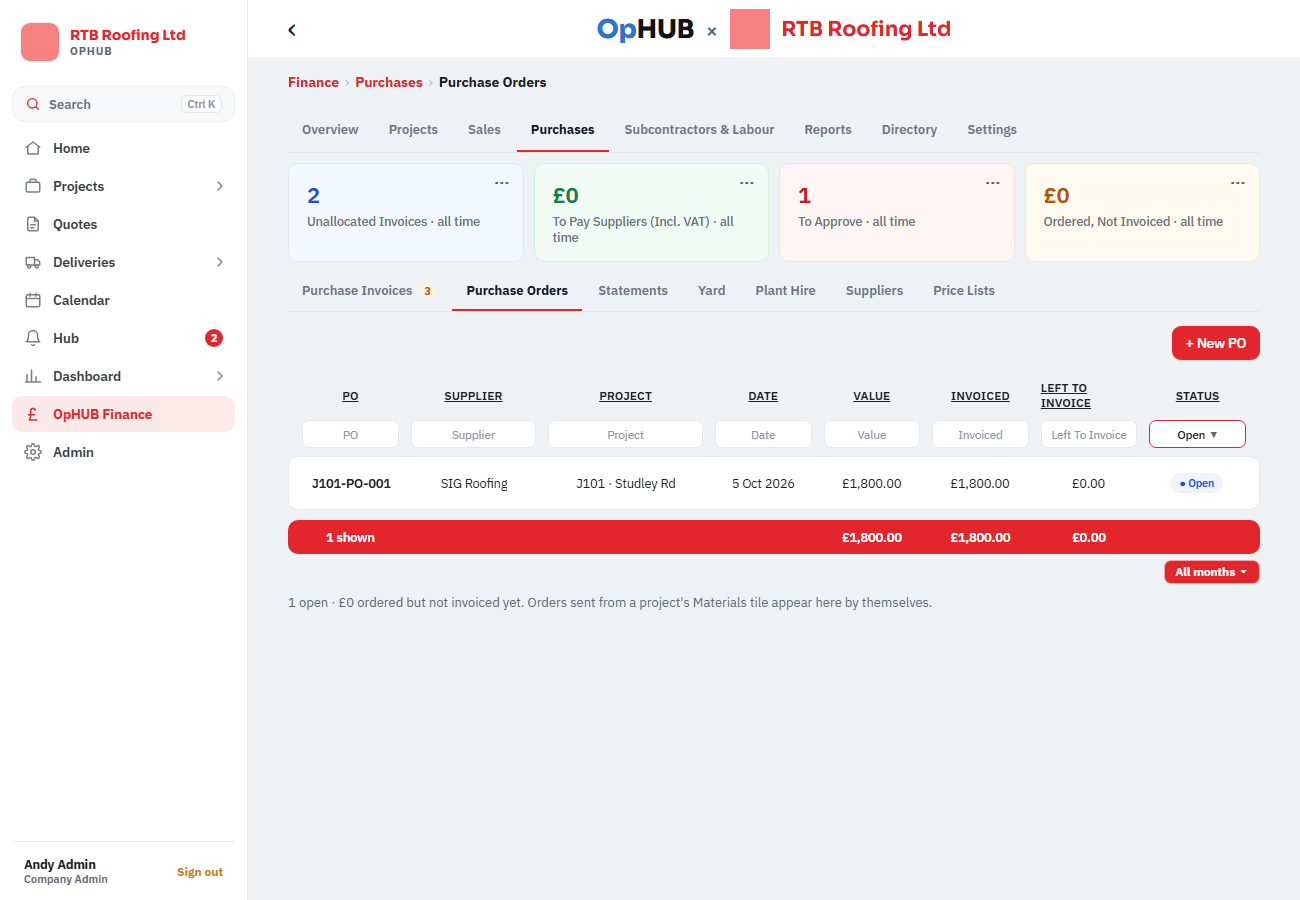
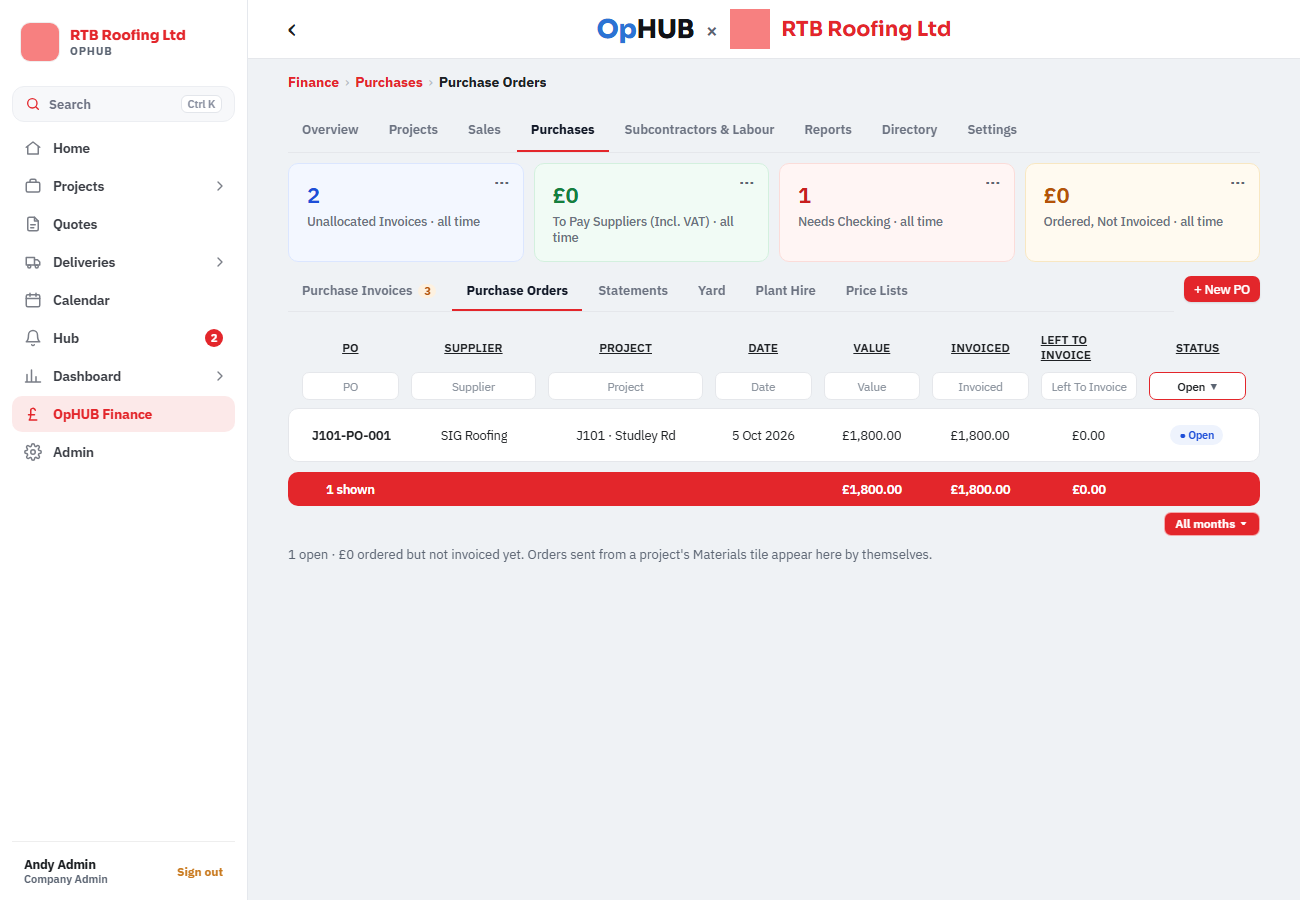
Purchases: + New PO sits at the end of the Purchase Invoices / Purchase Orders / Statements / Yard row instead of between the row and the table; Suppliers tab removed (suppliers live in the Directory); Price Book / Price Lists as underlined tabs (Andy, 5 Nov).
Claude-Session: https://claude.ai/code/session_012KhfNvBEbifMJmPdX7yZfp

diff --git a/app-native/src/components/FinNav.tsx b/app-native/src/components/FinNav.tsx
@@ -19,7 +19,7 @@ export const FIN_SECTIONS = [
 export const FIN_SUBS: Record<string, [string, string][]> = {
   sales: [['apps', 'Applications & Certificates'], ['invoices', 'Invoices'], ['retention', 'Retention']],
   // The current app's order: invoices first, then orders, statements, yard, plant hire, prices (9219z, 9219l, 9219m; cmp-fin 5 Nov 2026).
-  purchases: [['invoices', 'Purchase Invoices'], ['orders', 'Purchase Orders'], ['statements', 'Statements'], ['yard', 'Yard'], ['plant', 'Plant Hire'], ['suppliers', 'Suppliers'], ['prices', 'Price Lists']],
+  purchases: [['invoices', 'Purchase Invoices'], ['orders', 'Purchase Orders'], ['statements', 'Statements'], ['yard', 'Yard'], ['plant', 'Plant Hire'], ['prices', 'Price Lists']], // Suppliers live in the Directory (Andy, 5 Nov 2026)
   // Every word capitalised, as the current app (9219x) and Andy's rule (cmp-fin 5 Nov 2026).
   subs: [['opinv', 'Operative Invoices'], ['wages', 'Wages To Book'], ['payrun', 'Pay Run'], ['orders', 'Subcontractor POs'], ['apps', 'Applications & Certificates'], ['cis', 'CIS'], ['rates', 'People & Rates']],
   settings: [['general', 'Settings'], ['codes', 'Cost Codes'], ['templates', 'Templates'], ['team', 'Team']],
@@ -158,7 +158,8 @@ function KeepInView({ on, items, render }: { on?: string; items: [string, string
 /** The Settings tabs: Settings, Cost Codes, Templates and Team live on different pages. */
 export const finSettingsGo = (k: string) => router.replace(({ general: '/fin/settings', codes: '/fin/directory?kind=codes', templates: '/fin/templates', team: '/fin/team' } as Record<string, string>)[k] as never);
 
-export function FinPage({ title, section, sub, onSub, badges, children, wide, top, foot }: { title: string; section: string; sub?: string; onSub?: (k: string) => void; badges?: Record<string, number>; children: ReactNode; wide?: boolean; top?: ReactNode; foot?: ReactNode }) {
+/** subRight: a button at the right-hand end of the second tab row (+ New PO, Andy 5 Nov 2026). */
+export function FinPage({ title, section, sub, onSub, badges, children, wide, top, foot, subRight }: { title: string; section: string; sub?: string; onSub?: (k: string) => void; badges?: Record<string, number>; children: ReactNode; wide?: boolean; top?: ReactNode; foot?: ReactNode; subRight?: ReactNode }) {
   const { me, org } = useAuth();
   const t = useTheme();
   // Team only for Finance-only companies, which have no Admin Centre; everyone else switches Finance on in Admin › Users.
@@ -179,7 +180,7 @@ export function FinPage({ title, section, sub, onSub, badges, children, wide, to
           {section === 'overview' && <View style={{ backgroundColor: '#fff', borderWidth: 1, borderColor: '#e5e7eb', borderRadius: 10, paddingVertical: 8, paddingHorizontal: 12, marginBottom: 10 }}><Text style={{ color: '#111827', fontSize: 12 }}>🔒 Finance trial — nothing is sent from Finance (no emails, no Xero, no pushes to PMs) while it&apos;s being tested.</Text></View>}
           {!!top && <FinMode.Provider value>{top}</FinMode.Provider>}
           {subs.length > 1 && onSub && (
-            <View style={{ borderBottomWidth: 1, borderBottomColor: '#e5e7eb', marginBottom: 10 }}><KeepInView on={sub} items={subs} render={(k, l) => <TabItem on={k === sub} label={l} n={badges?.[k]} amber onPress={() => onSub(k)} />} /></View>
+            <View style={{ flexDirection: 'row', alignItems: 'center', gap: 10, marginBottom: 10 }}><View style={{ flex: 1, minWidth: 0, borderBottomWidth: 1, borderBottomColor: '#e5e7eb' }}><KeepInView on={sub} items={subs} render={(k, l) => <TabItem on={k === sub} label={l} n={badges?.[k]} amber onPress={() => onSub(k)} />} /></View>{subRight}</View>
           )}
           <FinMode.Provider value>{children}</FinMode.Provider>
         </>

diff --git a/app-native/src/app/(app)/fin/purchases.tsx b/app-native/src/app/(app)/fin/purchases.tsx
@@ -1,31 +1,22 @@
 // Finance › Purchases (money out): orders, purchase invoices, plant hire, suppliers, and Price lists, which holds the
 // Price book and the Price lists as two tabs of its own (Andy, 4 Nov 2026).
 import { router, useLocalSearchParams } from 'expo-router';
-import { Pressable, Text, View } from 'react-native';
 
-import { FinPage } from '@/components/FinNav';
-import { PurchasesLists, PurchasesStats, usePurchaseBadges } from '@/components/FinPurchases';
+
+import { FinPage, FinTabs } from '@/components/FinNav';
+import { NewPoButton, PurchasesLists, PurchasesStats, usePurchaseBadges } from '@/components/FinPurchases';
 import { PriceBook } from '@/components/FinPriceBook';
 import { PurchaseQuotes } from '@/components/FinPurchaseQuotes';
-import { useTheme } from '@/theme/theme';
+
 
 export default function FinPurchases() {
   const { tab = 'orders', f } = useLocalSearchParams<{ tab?: 'orders' | 'invoices' | 'plant' | 'suppliers' | 'prices' | 'pricebook' | 'pricelists'; f?: string }>();
   const badges = usePurchaseBadges();
-  const t = useTheme();
   const prices = tab === 'prices' || tab === 'pricebook' || tab === 'pricelists';
   const pt = tab === 'pricelists' ? 'pricelists' : 'pricebook';
   return (
-    <FinPage title="Purchases" section="purchases" badges={badges} sub={prices ? 'prices' : tab} onSub={(k) => (k === 'statements' ? router.replace('/fin/statements' as never) : k === 'yard' ? router.replace('/fin/yard' as never) : router.setParams({ tab: (k === 'prices' ? 'pricebook' : k) as never }))} top={<PurchasesStats />}>
-      {prices && (
-        <View style={{ flexDirection: 'row', gap: 6, marginBottom: 12 }}>
-          {([['pricebook', 'Price Book'], ['pricelists', 'Price Lists']] as const).map(([k, l]) => (
-            <Pressable key={k} accessibilityRole="button" onPress={() => { if (pt !== k) router.setParams({ tab: k as never }); }} style={{ paddingHorizontal: 12, paddingVertical: 8, borderBottomWidth: 2, borderBottomColor: pt === k ? t.brand1 : 'transparent' }}>
-              <Text style={{ fontSize: 14, fontWeight: pt === k ? '700' : '600', color: pt === k ? '#111827' : '#6b7280' }}>{l}</Text>
-            </Pressable>
-          ))}
-        </View>
-      )}
+    <FinPage title="Purchases" section="purchases" badges={badges} subRight={tab === 'orders' ? <NewPoButton /> : undefined} sub={prices ? 'prices' : tab} onSub={(k) => (k === 'statements' ? router.replace('/fin/statements' as never) : k === 'yard' ? router.replace('/fin/yard' as never) : router.setParams({ tab: (k === 'prices' ? 'pricebook' : k) as never }))} top={<PurchasesStats />}>
+      {prices && <FinTabs items={[['pricebook', 'Price Book'], ['pricelists', 'Price Lists']]} value={pt} onChange={(k) => { if (pt !== k) router.setParams({ tab: k as never }); }} />}
       {prices ? (pt === 'pricebook' ? <PriceBook /> : <PurchaseQuotes />) : <PurchasesLists key={`${tab}${f || ''}`} tab={tab as 'orders'} f={f} />}
     </FinPage>
   );

diff --git a/app-native/src/components/FinPurchases.tsx b/app-native/src/components/FinPurchases.tsx
@@ -103,6 +103,11 @@ const isPaid = (i: Row) => !!i.paid_on || !!i.stmt_paid;
 /** The Status words (Andy, 5 Nov 2026): Needs Checking, Query, Approved (Auto when it approved itself), Paid. */
 const piWord = (i: Row) => (isPaid(i) ? (i.paid_on ? 'Paid' : 'Paid (Statement)') : i.status === 'to_approve' ? 'Needs Checking' : i.status === 'approved' && i.auto_approved ? 'Approved (Auto)' : PI_STATUS[i.status] || i.status);
 const piTone = (i: Row) => (isPaid(i) ? '#1E7A43' : i.status === 'query' ? '#C0392B' : i.status === 'to_approve' ? '#B35A00' : undefined);
+/** + New PO in the Purchases tab row (Andy, 5 Nov 2026): pick the project, then the new PO. */
+export function NewPoButton() {
+  const { data: sites = [] } = useSites();
+  return <Button small title="+ New PO" onPress={async () => { const sid = await pickJob('New purchase order', sites.filter((s) => s.status !== 'closed')); if (sid) router.push(`/fin/po/new?site=${sid}` as never); }} />;
+}
 export function PurchasesLists({ tab, siteId, f: f0 }: { tab: 'orders' | 'invoices' | 'plant' | 'suppliers' | 'all'; siteId?: string; f?: string }) {
   const { me } = useAuth();
   const { data: sites = [] } = useSites();
@@ -221,7 +226,7 @@ export function PurchasesLists({ tab, siteId, f: f0 }: { tab: 'orders' | 'invoic
     const committed = round2(openPos.filter((p) => p.value != null).reduce((t, p) => t + Math.max(0, Number(p.value) - poInvoiced(p, live)), 0));
     return (
       <View>
-        <View style={desk ? { flexDirection: 'row', justifyContent: 'flex-end', marginBottom: 10 } : { marginBottom: 10 }}><Button title="+ New PO" onPress={() => void withJob('New purchase order', (sid) => `/fin/po/new?site=${sid}`)} /></View>
+        {!!siteId && <View style={desk ? { flexDirection: 'row', justifyContent: 'flex-end', marginBottom: 10 } : { marginBottom: 10 }}><Button title="+ New PO" onPress={() => void withJob('New purchase order', (sid) => `/fin/po/new?site=${sid}`)} /></View>}
         {bar('Search PO, supplier or project', [{ key: 'status', label: 'Status', items: [['open', 'Open'], ['invoiced', 'Invoiced'], ['cancelled', 'Cancelled']].map(([v, l]) => ({ v, l, n: data.pos.filter(F[v]).filter(fOK).length })) }])}
         {desk && list.length ? (
           <FinTable startFilter={{ s: ['Open'] }} rows={list} keyOf={(p) => p.id} onRow={(p) => router.push(`/fin/po/${p.id}` as never)}

diff --git a/tools/test-harness/fintabs-shots.js b/tools/test-harness/fintabs-shots.js
@@ -12,7 +12,7 @@ const seed = require('./fresh/seed');
   await page.goto('http://localhost:8081/login'); await page.waitForTimeout(4000);
   await page.fill('input[placeholder="you@yourcompany.co.uk"]', 'a@x.co'); await page.fill('input[type="password"]', 'pw123456');
   await page.getByText('Sign In', {exact: true}).click(); await page.waitForTimeout(5000);
-  for (const [u, n] of [[`/fin/job/${S1}?tab=purchases`, 'job-purchases'], [`/fin/job/${S1}/variations`, 'job-variations'], [`/fin/job/${S1}/summary`, 'job-summary'], ['/fin/purchases?tab=orders', 'purchase-orders'], ['/fin/sales?tab=invoices', 'sales']]) {
+  for (const [u, n] of [[`/fin/job/${S1}?tab=purchases`, 'job-purchases'], [`/fin/job/${S1}/variations`, 'job-variations'], [`/fin/job/${S1}/summary`, 'job-summary'], ['/fin/purchases?tab=orders', 'purchase-orders'], ['/fin/purchases?tab=pricebook', 'price-book'], ['/fin/sales?tab=invoices', 'sales']]) {
     await page.goto('http://localhost:8081' + u); await page.waitForTimeout(5000);
     const tabs = await page.getByRole('tab').allInnerTexts();
     console.log(n, '|', tabs.map((t) => t.replace(/\s+/g, ' ')).join(' · '));
